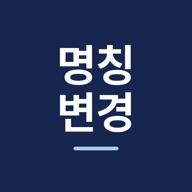
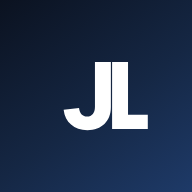
아테라: 플랫폼 인트로 · 앱 설치(홈 화면 추가) 추가, 출력 시 서명 겹침 수정
- 법무법인 제이엘 인트로 애니메이션 (창마다 한 번, 누르면 건너뜀)
- 📲 앱 설치 · 홈 화면 추가 배너 · 카톡 안에서는 「인터넷으로 열기」
- 서명을 「(서명 또는 날인)」 자리에 두고 계약자는 위로, 공동명의는 아래로만 커지게 해 두 서명이 겹치지 않게 함
- 긴 이름은 글자 크기 자동 축소

Claude-Session: https://claude.ai/code/session_013B34XReFhMktPE2pUURqEZ

diff --git a/index.html b/index.html
@@ -12,13 +12,20 @@
 <meta property="og:url" content="https://kingjin77-rgb.github.io/goyang-atera/">
 <meta name="robots" content="noindex">
 <meta name="theme-color" content="#16264F">
-<link rel="icon" href="icon.png">
+<meta name="apple-mobile-web-app-capable" content="yes">
+<meta name="mobile-web-app-capable" content="yes">
+<meta name="apple-mobile-web-app-status-bar-style" content="black-translucent">
+<meta name="apple-mobile-web-app-title" content="아테라 명칭변경">
+<link rel="manifest" href="manifest.json">
+<link rel="apple-touch-icon" href="icon-192.png">
+<link rel="icon" href="icon-192.png">
 <link rel="preload" href="fonts/Pretendard-Regular.subset.woff2" as="font" type="font/woff2" crossorigin>
 <style>
 @font-face{font-family:Pretendard;font-weight:400;font-display:swap;src:url(fonts/Pretendard-Regular.subset.woff2) format("woff2")}
 @font-face{font-family:Pretendard;font-weight:700;font-display:swap;src:url(fonts/Pretendard-Bold.subset.woff2) format("woff2")}
 :root{--navy:#16264F;--navy2:#24386B;--sky:#A9CCE8;--sky2:#E8F1F9;--sand:#E9C88E;--ink:#1B2236;--ink2:#4A5468;--line:#DCE2EC;--bg:#F4F6FA;--ok:#1D7A4E;--no:#B23B3B}
 *{box-sizing:border-box}
+[hidden]{display:none!important}
 html{-webkit-text-size-adjust:100%}
 body{margin:0;background:var(--bg);color:var(--ink);font-family:Pretendard,'맑은 고딕','Malgun Gothic',-apple-system,sans-serif;font-size:16px;line-height:1.55;word-break:keep-all;overflow-wrap:break-word}
 button,input,select{font:inherit;color:inherit}
@@ -106,6 +113,54 @@ table.l tr.dup td{color:#8A93A5}
 .modal .mh{display:flex;gap:8px;align-items:center;justify-content:flex-end;padding:10px 12px;background:#fff}
 .modal .mb{flex:1;overflow:auto;padding:12px}
 @media (max-width:640px){.kpis{grid-template-columns:repeat(2,1fr)}}
+/* ── 인트로 (법무법인 제이엘 플랫폼 공통) ── */
+:root{--ease:cubic-bezier(.22,1,.36,1)}
+.intro{position:fixed;inset:0;z-index:200;display:grid;place-items:center;background:#070b14;color:#fff;overflow:hidden}
+.intro.gone{display:none}
+.intro-bg{position:absolute;inset:0;background:radial-gradient(58% 42% at 50% 40%,rgba(92,130,255,.28),transparent 70%),radial-gradient(45% 40% at 80% 80%,rgba(169,204,232,.18),transparent 70%),linear-gradient(160deg,#070b14,#0d1530);transform:scale(1.08);animation:introBg 5s var(--ease) forwards}
+@keyframes introBg{to{transform:scale(1)}}
+.intro-in{position:relative;text-align:center;padding:0 26px;max-width:460px}
+.intro-logo{position:relative;display:inline-block;overflow:hidden;opacity:0;animation:logoIn 1.15s var(--ease) .2s forwards}
+.intro-logo img{display:block;width:230px;max-width:62vw;height:auto}
+@keyframes logoIn{from{opacity:0;transform:scale(.9) translateY(10px);filter:blur(9px)}to{opacity:1;transform:none;filter:blur(0)}}
+.intro-logo .shine{position:absolute;top:-30%;bottom:-30%;width:42%;left:-60%;background:linear-gradient(100deg,transparent,rgba(255,255,255,.55),transparent);transform:skewX(-18deg);animation:1.25s cubic-bezier(.5,0,.3,1) 1.1s forwards shine}
+@keyframes shine{to{left:130%}}
+.intro-rule{width:0;height:1px;margin:24px auto 20px;background:linear-gradient(90deg,transparent,rgba(143,168,255,.85),transparent);animation:rule .9s var(--ease) 1.55s forwards}
+@keyframes rule{to{width:200px}}
+.intro-apt{font-size:1.52rem;font-weight:700;letter-spacing:.3em;opacity:0;animation:introTx 1.35s var(--ease) 1.8s forwards;text-indent:.3em}
+.intro-org{font-size:.84rem;color:#93a4c4;letter-spacing:.2em;margin-top:10px;opacity:0;animation:introTx 1.15s var(--ease) 2.25s forwards;text-indent:.2em}
+@keyframes introTx{from{opacity:0;letter-spacing:.6em;filter:blur(7px);transform:translateY(9px)}to{opacity:1;letter-spacing:.22em;filter:blur(0);transform:none}}
+.intro-by{font-size:.76rem;color:#5e6e8a;letter-spacing:.16em;margin-top:26px;opacity:0;animation:byIn .9s var(--ease) 2.75s forwards}
+@keyframes byIn{to{opacity:1}}
+.intro-skip{font-size:.76rem;color:#3e4a62;letter-spacing:.1em;margin-top:34px;opacity:0;animation:byIn 1s var(--ease) 3.3s forwards}
+.intro.out .intro-in{animation:introOut .55s var(--ease) 4.5s forwards}
+@keyframes introOut{to{opacity:0;transform:translateY(-14px) scale(.975);filter:blur(4px)}}
+.intro.out{animation:1s cubic-bezier(.76,0,.24,1) 4.8s forwards curtain}
+@keyframes curtain{to{transform:translateY(-101%)}}
+body.booting{overflow:hidden}
+body.booting #app{opacity:0;transform:translateY(16px)}
+body.booted #app{opacity:1;transform:none;transition:opacity .7s var(--ease),transform .8s var(--ease)}
+@media (prefers-reduced-motion:reduce){.intro{display:none}}
+/* ── 앱 설치 (홈 화면에 추가) ── */
+.chip.ins{background:#fff;color:var(--navy);border-color:#fff;font-weight:700;cursor:pointer}
+@media (display-mode:standalone){.chip.ins{display:none!important}}
+.install{position:fixed;left:12px;right:12px;z-index:70;bottom:calc(12px + env(safe-area-inset-bottom));display:flex;align-items:center;gap:12px;background:#fff;border:1px solid var(--line);border-radius:16px;padding:12px 12px 12px 14px;box-shadow:0 2px 4px rgba(11,18,32,.05),0 18px 48px rgba(11,18,32,.16)}
+.ins-ic{width:42px;height:42px;border-radius:12px;flex:none}
+.ins-tx{flex:1;min-width:0}.ins-tx b{display:block;font-size:15px}.ins-tx span{display:block;font-size:13px;color:var(--ink2);line-height:1.5;margin-top:2px}
+.ins-btns{display:flex;align-items:center;gap:4px;flex:none}
+.ins-x{width:30px;height:30px;border:0;background:none;border-radius:9px;color:#8A93A5;font-size:15px;cursor:pointer}
+@media(min-width:960px){.install{left:auto;right:24px;bottom:24px;max-width:400px}}
+.inapp-bar{position:fixed;left:10px;right:10px;bottom:calc(12px + env(safe-area-inset-bottom));z-index:90;display:flex;align-items:center;gap:8px;padding:10px 12px;border-radius:14px;background:#191919;color:#fff;font-size:13px;box-shadow:0 10px 30px rgba(0,0,0,.25)}
+.inapp-bar span{flex:1}
+.inapp-bar button{border:0;border-radius:999px;padding:8px 12px;font-weight:700;font-size:13px;background:#fee500;color:#111;cursor:pointer}
+.inapp-bar button.x{background:0 0;color:#fff;padding:6px}
+body.has-inapp .wrap{padding-bottom:90px}
+.sheet{position:fixed;inset:0;z-index:120;background:rgba(10,16,30,.5);display:flex;align-items:flex-end;justify-content:center}
+.sheet .sh{background:#fff;width:100%;max-width:560px;border-radius:18px 18px 0 0;padding:20px 18px calc(20px + env(safe-area-inset-bottom));max-height:85vh;overflow:auto}
+.sheet h3{margin:0 0 12px;font-size:18px}
+.ins-how .ins-b{font-weight:700;margin-bottom:8px}
+.ins-how ol{margin:0 0 12px;padding-left:22px;line-height:1.9;font-size:15px}
+.ins-how p{font-size:13px;color:#6A7385;line-height:1.7;margin:10px 0 0}
 /* ── 동의서 양식 (HWP 원본 좌표 그대로 · mm) ── */
 .pg{position:relative;width:210mm;height:297mm;background:#fff;color:#000;overflow:hidden;line-height:1.2;text-align:left;
  font-family:Pretendard,'맑은 고딕','Malgun Gothic',sans-serif;font-size:11pt;word-break:keep-all;letter-spacing:.07em;word-spacing:.1em;-webkit-print-color-adjust:exact;print-color-adjust:exact}
@@ -129,23 +184,32 @@ table.l tr.dup td{color:#8A93A5}
 .pg .d{left:30mm;width:150mm;text-align:center;font-size:12pt;line-height:1}
 .pg .s{left:30mm;width:150mm;height:6mm;font-size:12pt;line-height:6mm}
 .pg .s .k{position:absolute;right:56.5mm;white-space:pre}
-.pg .s .v{position:absolute;left:94mm;width:28mm;text-align:center;white-space:nowrap}
+.pg .s .v{position:absolute;left:94.5mm;width:26mm;text-align:left;white-space:nowrap;overflow:hidden}
+.pg .s .v.sm{font-size:10pt}.pg .s .v.xs{font-size:8pt}
+/* 서명은 「(서명 또는 날인)」 자리에 — 계약자 줄은 위로, 공동명의 줄은 아래로만 커져서 두 서명이 겹치지 않음 */
+.pg .s .w{position:absolute;left:120.5mm;width:29mm;height:10mm;display:flex;justify-content:center;pointer-events:none}
+.pg .s1 .w{bottom:-.3mm;align-items:flex-end}
+.pg .s2 .w{top:-.1mm;align-items:flex-start}
 .pg .s .n{position:absolute;right:3.3mm;font-size:9pt}
-.pg .sg{position:absolute;max-height:11mm;max-width:27mm;top:-2.5mm;left:50%;transform:translateX(-50%);mix-blend-mode:multiply}
+.pg .sg{display:block;max-height:10mm;max-width:29mm;width:auto;height:auto;mix-blend-mode:multiply}
 
 #prt{display:none}
 @media print{
  @page{size:A4;margin:0}
  html,body{background:#fff!important}
  body>*:not(#prt){display:none!important}
+ .intro,.install,.inapp-bar,.sheet{display:none!important}
  #prt{display:block!important}
  #prt .pg{zoom:1!important;page-break-after:always;break-after:page}
  #prt .pg:last-child{page-break-after:auto;break-after:auto}
 }
 </style>
 </head>
-<body class="res">
+<body class="res booting">
[1 lines of base64/hex data omitted]
 <div id="app"></div>
+<div class="inapp-bar" id="inAppBar" hidden><span id="inAppTx">앱 안에서는 앱 설치가 안 됩니다</span><button type="button" onclick="Install.out()">인터넷으로 열기</button><button type="button" class="x" onclick="document.getElementById('inAppBar').hidden=true;document.body.classList.remove('has-inapp')" aria-label="닫기">✕</button></div>
+<div class="install" id="installBar" hidden><img class="ins-ic" src="icon-192.png" alt=""><div class="ins-tx"><b id="insTitle">홈 화면에 추가하기</b><span id="insDesc">한 번 추가하면 앱처럼 바로 열립니다. 설치 용량은 1MB도 되지 않습니다.</span></div><div class="ins-btns"><button class="btn sm" id="insGo" onclick="Install.go()">추가</button><button class="ins-x" onclick="Install.later()" aria-label="닫기">✕</button></div></div>
 <div id="prt"></div>
 <script>window.CFG={"apt":"고양 장항 아테라","short":"고양장항아테라","org":"고양 장항 아테라 입주예정자협의회","newName":"","total":760,"layout":{"301":[[1,3,28],[2,3,28],[3,3,21],[4,3,21],[5,1,21]],"302":[[1,1,29],[2,3,29],[3,1,29]],"303":[[1,1,27],[2,1,27],[3,1,27],[4,3,27],[5,1,27]],"304":[[1,1,24],[2,3,24],[3,1,24],[4,3,24],[5,1,18]],"305":[[1,3,18],[2,3,18],[3,3,18],[4,3,18]],"306":[[1,1,25],[2,1,27],[3,3,27]],"307":[[1,1,26],[2,3,29],[3,3,29]],"308":[[1,3,24],[2,3,24],[3,1,20],[4,3,20],[5,3,20]]},"cafe":"https://cafe.naver.com/jahangartera","worker":"https://jl-atera.treparkjl.workers.dev","residentUrl":"https://kingjin77-rgb.github.io/goyang-atera/","mode":"res"};</script>
 <script>
@@ -177,6 +241,7 @@ function deed(v){
   v=v||{};var j=v.joint||{},N=C.apt;
   function ck(b){return'<i class="bx'+(b?' on':'')+'"></i>'}
   function sg(src){return src?'<img class="sg" src="'+esc(src)+'" alt="">':''}
+  function nm(n){n=String(n||'').length;return n>7?' xs':n>5?' sm':''}
   return '<div class="pg">'+
   '<div class="ab t" style="top:34.2mm">아파트 명칭 변경 동의서</div>'+
   '<table class="ti" style="top:49.9mm"><colgroup><col><col><col><col></colgroup>'+
@@ -191,8 +256,8 @@ function deed(v){
   '<tr class="r1"><td class="l">명 칭</td><td>'+N+'</td><td>'+esc(C.newName||'')+'</td></tr>'+
   '<tr class="r2"><td class="l">항 목</td><td><span class="cb">'+ck(v.agree===false)+'</span><span class="ct">명칭 변경에 동의하지 않습니다.</span></td><td><span class="cb">'+ck(v.agree===true)+'</span><span class="ct">명칭 변경에 동의합니다.</span></td></tr></table>'+
   '<div class="ab d" style="top:199.4mm">'+(v.date?kdate(v.date):'2026년 &emsp; 월 &emsp; 일')+'</div>'+
-  '<div class="ab s" style="top:225.6mm"><span class="k">계약자 :</span><span class="v">'+esc(v.name)+sg(v.sigUrl)+'</span><span class="n">(서명 또는 날인)</span></div>'+
-  '<div class="ab s" style="top:232.3mm"><span class="k">공동명의 :</span><span class="v">'+esc(j.name)+sg(v.jsigUrl)+'</span><span class="n">(서명 또는 날인)</span></div>'+
+  '<div class="ab s s1" style="top:225.6mm"><span class="k">계약자 :</span><span class="v'+nm(v.name)+'">'+esc(v.name)+'</span><span class="n">(서명 또는 날인)</span><span class="w">'+sg(v.sigUrl)+'</span></div>'+
+  '<div class="ab s s2" style="top:232.3mm"><span class="k">공동명의 :</span><span class="v'+nm(j.name)+'">'+esc(j.name)+'</span><span class="n">(서명 또는 날인)</span><span class="w">'+sg(v.jsigUrl)+'</span></div>'+
   '<div class="ab f" style="top:256.4mm">'+N+' 입주예정자협의회 귀중</div></div>';
 }
 /* 화면 폭에 맞춰 A4 를 그대로 축소 (인쇄는 원래 크기) */
@@ -225,7 +290,7 @@ function Pad(box){
 function padHtml(id,label){return '<label class="f">'+label+'</label><div class="pad" id="'+id+'"><canvas></canvas><div class="ph">여기에 손가락으로 서명해 주세요</div><button type="button" class="btn ghost sm clr">다시 쓰기</button></div>'}
 function head(){return '<div class="top"><div class="wrap"><div class="org">'+esc(C.org)+'</div><h1>'+(C.mode==='admin'?'명칭 변경 동의서 · 관리자':'아파트 명칭 변경 동의서')+'</h1>'+
   (C.mode==='admin'?'':'<div class="sub">온라인으로 작성하고 서명하면 협의회에 바로 제출됩니다</div>')+
-  '<div class="bar"><a class="chip" href="'+esc(C.cafe)+'" target="_blank" rel="noopener">네이버 카페</a>'+(C.mode==='admin'?'<a class="chip" href="'+esc(C.residentUrl)+'" target="_blank" rel="noopener">입주민 화면</a>':'')+'</div></div></div>'}
+  '<div class="bar"><button type="button" class="chip ins" onclick="Install.ask()"'+(Install.standalone()?' hidden':'')+'>📲 앱 설치</button><a class="chip" href="'+esc(C.cafe)+'" target="_blank" rel="noopener">네이버 카페</a>'+(C.mode==='admin'?'<a class="chip" href="'+esc(C.residentUrl)+'" target="_blank" rel="noopener">입주민 화면</a>':'')+'</div></div></div>'}
 function foot(){return '<div class="foot">'+esc(C.org)+' · 운영지원 법무법인 제이엘</div>'}
 
 /* ═════════ 입주민 화면 ═════════ */
@@ -414,7 +479,71 @@ function csv(){
   a.href=URL.createObjectURL(blob);a.download='명칭변경동의_'+C.short+'_'+today()+'.csv';document.body.appendChild(a);a.click();setTimeout(function(){URL.revokeObjectURL(a.href);a.remove()},500);
 }
 
+/* ═════════ 인트로 · 앱 설치 (영통 등 플랫폼 공통 동작) ═════════ */
+function sheet(title,html){var m=document.createElement('div');m.className='sheet';m.innerHTML='<div class="sh"><h3>'+title+'</h3>'+html+'<button class="btn ghost" type="button" style="margin-top:14px">닫기</button></div>';
+  m.onclick=function(e){if(e.target===m||e.target.textContent==='닫기'&&e.target.tagName==='BUTTON')m.remove()};document.body.appendChild(m)}
+function toast(t){var d=document.createElement('div');d.textContent=t;d.style.cssText='position:fixed;left:50%;bottom:90px;transform:translateX(-50%);background:#16264F;color:#fff;padding:10px 16px;border-radius:999px;font-size:14px;z-index:150;max-width:90vw';document.body.appendChild(d);setTimeout(function(){d.remove()},2600)}
+function splash(done){
+  var el=$('#intro'),seen=false,red=false;
+  try{seen=sessionStorage.getItem('jl2_intro')==='1'}catch(e){}
+  try{red=window.matchMedia('(prefers-reduced-motion: reduce)').matches}catch(e){}
+  function fin(){document.body.classList.remove('booting');document.body.classList.add('booted');if(done){var f=done;done=null;f()}}
+  if(!el||seen||red){if(el)el.classList.add('gone');fin();return}
+  try{sessionStorage.setItem('jl2_intro','1')}catch(e){}
+  el.classList.add('out');
+  setTimeout(fin,4900);setTimeout(function(){el.classList.add('gone')},5900);
+  el.addEventListener('pointerdown',function(){el.classList.add('gone');fin()},{once:true});
+}
+var Install={ev:null,
+  standalone:function(){try{return window.matchMedia('(display-mode: standalone)').matches||window.navigator.standalone===true}catch(e){return false}},
+  isIOS:function(){return /iPad|iPhone|iPod/.test(navigator.userAgent)&&!window.MSStream},
+  dismissed:function(){try{return localStorage.getItem('jl2_ins_atera')==='no'}catch(e){return false}},
+  inApp:function(){var u=navigator.userAgent||'';return /KAKAOTALK/i.test(u)?'kakao':/NAVER\(inapp|NAVER/.test(u)?'naver':/BAND\//i.test(u)?'band':/Instagram|FBAN|FBAV|Line\/|DaumApps|everytimeApp|; wv\)/i.test(u)?'app':''},
+  browser:function(){var u=navigator.userAgent||'';if(this.isIOS())return /CriOS/.test(u)?'ios-chrome':/FxiOS|EdgiOS|NAVER|KAKAO|Whale/i.test(u)?'ios-other':'ios-safari';return /SamsungBrowser/i.test(u)?'samsung':/Whale/i.test(u)?'whale':/Android/i.test(u)?'android-chrome':'desktop'},
+  steps:function(){var b=this.browser();
+    return '<div class="ins-how"><div class="ins-b">'+{samsung:'삼성 인터넷','android-chrome':'크롬',whale:'웨일','ios-safari':'아이폰 사파리','ios-chrome':'아이폰 크롬','ios-other':'아이폰',desktop:'PC'}[b]+'에서 설치하는 방법</div><ol>'+
+    {samsung:['화면 아래 <b>≡ (줄 세 개)</b> 메뉴를 누릅니다','<b>「현재 페이지 추가」</b>를 누릅니다','<b>「홈 화면」</b>을 고르고 <b>「추가」</b>를 누릅니다'],
+     'android-chrome':['오른쪽 위 <b>⋮ (점 세 개)</b>를 누릅니다','<b>「홈 화면에 추가」</b> 또는 <b>「앱 설치」</b>를 누릅니다','<b>「설치」</b>(또는 「추가」)를 누릅니다'],
+     whale:['아래 <b>≡</b> 메뉴를 누릅니다','<b>「홈 화면에 추가」</b>를 누릅니다','<b>「추가」</b>를 누릅니다'],
+     'ios-safari':['화면 아래 가운데 <b>공유 버튼 (□↑)</b>을 누릅니다','목록을 위로 올려 <b>「홈 화면에 추가」</b>를 누릅니다','오른쪽 위 <b>「추가」</b>를 누릅니다'],
+     'ios-chrome':['주소창 오른쪽 <b>공유 버튼 (□↑)</b>을 누릅니다','<b>「홈 화면에 추가」</b>를 누릅니다','<b>「추가」</b>를 누릅니다'],
+     'ios-other':['이 앱에서는 설치가 안 됩니다 — <b>사파리</b>로 이 주소를 엽니다','사파리 아래 <b>공유 (□↑)</b> → <b>「홈 화면에 추가」</b>','<b>「추가」</b>를 누릅니다'],
+     desktop:['주소창 오른쪽 끝의 <b>설치 아이콘 (⊕ 또는 모니터 모양)</b>을 누릅니다','안 보이면 오른쪽 위 <b>⋮ → 「앱 설치」</b> (또는 「저장 및 공유 → 바로가기 만들기」)','<b>「설치」</b>를 누릅니다']}[b].map(function(x){return'<li>'+x+'</li>'}).join('')+'</ol>'+
+    (b==='ios-other'?'<button class="btn ghost" type="button" onclick="Install.copy()">주소 복사</button>':'')+'<p>설치하면 홈 화면에 아이콘이 생기고, 누르면 앱처럼 바로 열립니다.<br>앱 장터 설치가 아니라 용량이 거의 들지 않습니다.</p></div>'},
+  toChrome:function(){var u=location.href;if(this.inApp()!=='kakao')location.href='intent://'+u.replace(/^https?:\/\//,'')+'#Intent;scheme=https;package=com.android.chrome;end';else location.href='kakaotalk://web/openExternal?url='+encodeURIComponent(u)},
+  out:function(){if(this.isIOS()){if(this.inApp()==='kakao'){location.href='kakaotalk://web/openExternal?url='+encodeURIComponent(location.href);return}this.ask();return}this.toChrome()},
+  copy:function(){var u=location.href.split('#')[0];if(navigator.clipboard&&navigator.clipboard.writeText)navigator.clipboard.writeText(u).then(function(){toast('주소를 복사했습니다 — 사파리 · 크롬 주소창에 붙여넣으세요')},function(){prompt('주소를 복사하세요',u)});else prompt('주소를 복사하세요',u)},
+  ask:function(){
+    if(this.standalone())return toast('이미 앱으로 열려 있습니다');
+    if(this.ev)return this.go();
+    var a=this.inApp(),ios=this.isIOS();
+    if(a){var nm={kakao:'카카오톡',naver:'네이버 앱',band:'밴드'}[a]||'이 앱';
+      sheet('앱 설치는 인터넷 앱에서 됩니다','<p style="line-height:1.8;color:var(--ink2);margin:0">지금 <b>'+nm+' 안의 화면</b>으로 열려 있어 설치가 막혀 있습니다.<br>'+(ios?'<b>사파리</b>로 열어서 <b>공유(□↑) → 홈 화면에 추가</b>를 눌러 주세요.':'아래 버튼을 누르면 <b>크롬</b>으로 열립니다. 크롬에서 다시 「📲 앱 설치」를 눌러 주세요.')+'</p>'+
+        (ios?(a==='kakao'?'<button class="btn" type="button" onclick="location.href=\'kakaotalk://web/openExternal?url=\'+encodeURIComponent(location.href)">사파리로 열기</button>':'')+'<button class="btn ghost" type="button" onclick="Install.copy()">주소 복사</button>'
+            :'<button class="btn" type="button" onclick="Install.toChrome()">크롬으로 열기</button><button class="btn ghost" type="button" onclick="Install.copy()">주소 복사</button>'));
+    }else sheet('📲 앱 설치',this.steps());
+  },
+  init:function(){
+    if('serviceWorker' in navigator&&location.protocol.indexOf('http')===0)window.addEventListener('load',function(){navigator.serviceWorker.register('sw.js').catch(function(){})});
+    if(this.standalone())return;
+    var a=this.inApp(),bar=$('#inAppBar'),me=this;
+    if(a&&bar){bar.hidden=false;document.body.classList.add('has-inapp');$('#inAppTx').textContent=({kakao:'카카오톡',naver:'네이버 앱',band:'밴드'}[a]||'이 앱')+' 안에서는 앱 설치가 안 됩니다'}
+    window.addEventListener('beforeinstallprompt',function(e){e.preventDefault();me.ev=e;if(!me.dismissed())me.show()});
+    window.addEventListener('appinstalled',function(){me.ev=null;$('#installBar').hidden=true;Array.prototype.forEach.call(document.querySelectorAll('.chip.ins'),function(x){x.hidden=true})});
+    if(!this.dismissed()&&this.isIOS()&&!a)setTimeout(function(){me.show(true)},5200);
+  },
+  show:function(ios){var b=$('#installBar');if(!b||this.inApp())return;   /* 카톡 등 앱 안에서는 「인터넷으로 열기」 바만 */
+    if(ios){$('#insTitle').textContent='홈 화면에 추가하기';$('#insDesc').textContent='아래 공유 버튼 → 「홈 화면에 추가」를 누르시면 앱처럼 열립니다.';$('#insGo').textContent='방법 보기'}b.hidden=false},
+  go:function(){var me=this;if(!this.ev&&this.inApp()){$('#installBar').hidden=true;this.ask();return}
+    if(this.ev){this.ev.prompt();this.ev.userChoice.then(function(c){$('#installBar').hidden=true;me.ev=null;if(c&&c.outcome==='accepted')toast('홈 화면에 추가되었습니다')})}
+    else{sheet('📲 앱 설치',this.steps());$('#installBar').hidden=true}},
+  later:function(){$('#installBar').hidden=true;try{localStorage.setItem('jl2_ins_atera','no')}catch(e){}}
+};
+window.Install=Install;
+window.JLDeed=deed;   /* 점검용 — 동의서 1장 그리기 */
+Install.init();
 if(C.mode==='admin')login();else intro();
+splash();
 })();
 </script>
 </body>

diff --git a/sw.js b/sw.js
@@ -1,0 +1,55 @@
+/* 입주예정자협의회 플랫폼 — 서비스 워커
+   화면을 기기에 담아두어, 신호가 약한 곳에서도 즉시 열리게 합니다. */
+var CACHE = 'jl-goyang-atera-202610201439';
+var SHELL = ['./', './index.html', './icon-192.png', './icon-512.png', './fonts/Pretendard-Regular.subset.woff2', './manifest.json'];
+
+self.addEventListener('install', function (e) {
+  e.waitUntil(
+    caches.open(CACHE)
+      .then(function (c) { return c.addAll(SHELL).catch(function () {}); })
+      .then(function () { return self.skipWaiting(); })
+  );
+});
+
+self.addEventListener('activate', function (e) {
+  e.waitUntil(
+    caches.keys().then(function (ks) {
+      return Promise.all(ks.map(function (k) {
+        return k === CACHE ? null : caches.delete(k);
+      }));
+    }).then(function () { return self.clients.claim(); })
+  );
+});
+
+self.addEventListener('fetch', function (e) {
+  var req = e.request;
+  if (req.method !== 'GET') return;
+  var url = new URL(req.url);
+  if (url.origin !== location.origin) return;
+
+  /* 화면은 새 것을 먼저 받아보고, 안 되면 담아둔 것을 씁니다 */
+  if (req.mode === 'navigate') {
+    e.respondWith(
+      fetch(req).then(function (res) {
+        var copy = res.clone();
+        caches.open(CACHE).then(function (c) { c.put('./index.html', copy); });
+        return res;
+      }).catch(function () {
+        return caches.match('./index.html').then(function (r) { return r || caches.match('./'); });
+      })
+    );
+    return;
+  }
+
+  e.respondWith(
+    caches.match(req).then(function (hit) {
+      return hit || fetch(req).then(function (res) {
+        if (res && res.status === 200) {
+          var copy = res.clone();
+          caches.open(CACHE).then(function (c) { c.put(req, copy); });
+        }
+        return res;
+      });
+    })
+  );
+});
